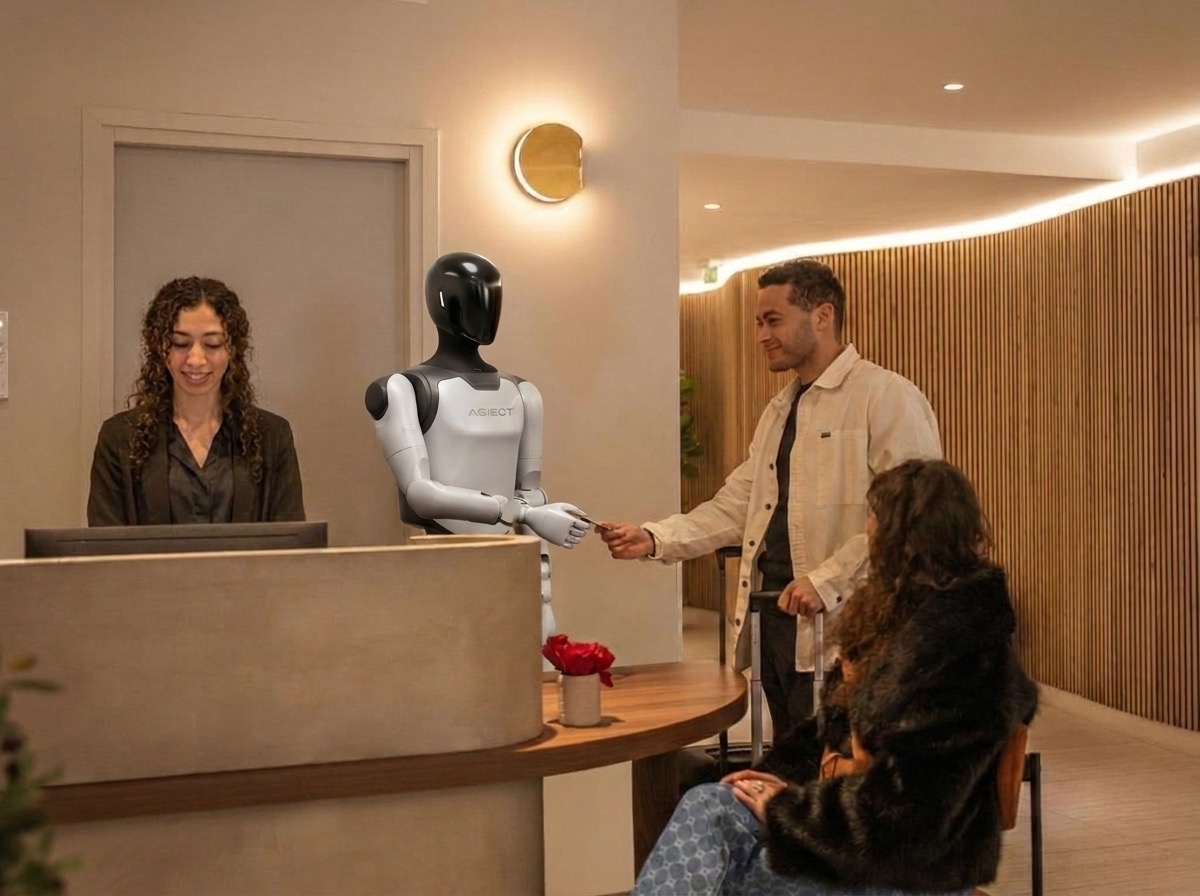
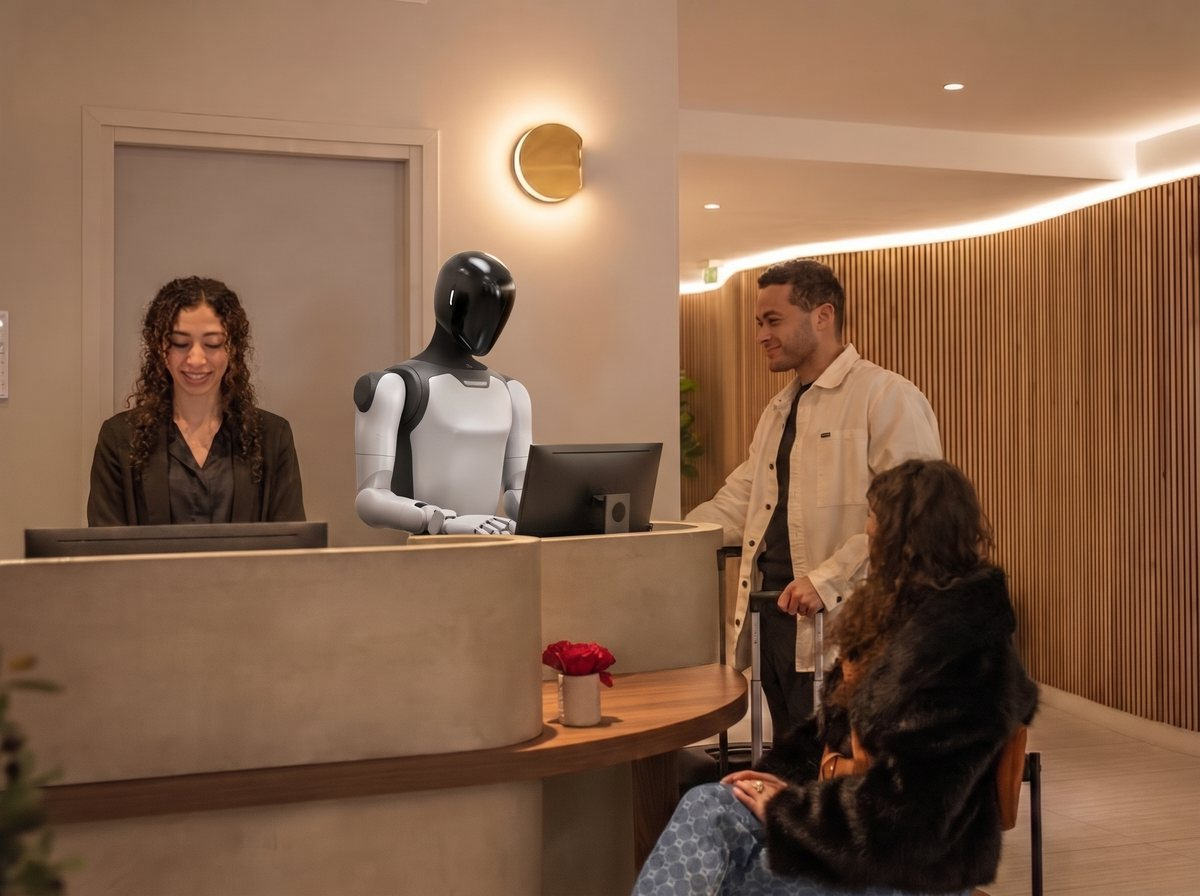
feat(deck): show the A3 at the desk computer and the Unitree H2 as the cheaper option

Changed region(s): [[0.2775, 0.2812, 0.6167, 0.75], [0.4317, 0.8438, 0.555, 1.0]]

diff --git a/presentation.html b/presentation.html
@@ -554,6 +554,13 @@
 </head>
 <body>
 
+  .pk-hero .img.duo { height: 590px; gap: 40px; padding-bottom: 40px; align-items: stretch; justify-content: center; }
+  .pk-hero .duo figure { display: flex; flex-direction: column; align-items: center; justify-content: flex-end; gap: 12px; min-height: 0; width: 280px; }
+  .pk-hero .duo figure img { flex: 1 1 0; min-height: 0; max-height: none; }
+  .pk-hero .duo figcaption { height: 92px; text-align: center; display: flex; flex-direction: column; gap: 2px; }
+  .pk-hero .duo figcaption b { font-size: 22px; }
+  .pk-hero .duo figcaption small { font-size: 16px; color: var(--ink-2); }
+  .pk-hero .duo figcaption span { font-size: 21px; font-weight: 800; }
 <!-- Loop mark: blue rounded square, white loop arrow, ink dot. Reused by every slide via <use>. -->
 <svg width="0" height="0" style="position:absolute">
   <defs>
@@ -718,8 +725,8 @@
       <b class="name rise" style="--d:.1s">AgiBot A3</b>
       <div class="meta rise" style="--d:.2s"><span class="price">Dès 88 600 € HT*</span></div>
       <p class="specs rise" style="--d:.25s">1,73 m · 55 kg · jusqu'à 10 h d'autonomie · batteries changées en 10 secondes</p>
-      <p class="src-n rise" style="--d:.3s">* Prix public de Generation Robots, revendeur en France, version standard. Relevé en octobre 2026.</p>
-      <div class="img"><img src="assets/deck/a3-debout.jpg" alt="AgiBot A3" style="filter:brightness(1.1)"></div>
+      <p class="src-n rise" style="--d:.3s">* Prix public de Generation Robots, revendeur en France, version standard. Relevé en octobre 2026.<br>** Prix public de Megadron, revendeur en Pologne. Relevé en octobre 2026.</p>
+      <div class="img duo"><figure><img src="assets/deck/agibot-a3.png" alt="AgiBot A3" style="height:96.1%"><figcaption><b>AgiBot A3</b><small>1,73 m · 55 kg</small></figcaption></figure><figure><img src="assets/deck/unitree-h2.png" alt="Unitree H2" style="height:100%"><figcaption><b>Unitree H2</b><small>1,80 m · 70 kg · moins cher</small><span>35 146 € HT**</span></figcaption></figure></div>
     </div>
     <div class="pk-body">
       <div class="rise" style="--d:.2s"><h6>Ce qu'on retient</h6><ul class="pk-seen"><li class="ok">Taille humaine : il tient un comptoir comme une personne.</li><li class="ok">Parle et comprend la voix, avec des gestes.</li><li class="ok">Se déplace à pied, jusqu'à 1,8 m/s.</li><li class="ok">Deux batteries : on les change sans l'éteindre.</li><li class="ko">Coûte très cher.</li><li class="ko">Nécessite un développement logiciel.</li></ul></div>
@@ -727,8 +734,7 @@
       <div class="pk-alts">
         <div class="pk-alt pop" data-at="600"><span class="th ph"><img src="assets/deck/alt-unitree-r1.jpg" alt=""><span class="x">✕</span></span><div><b>Unitree R1</b><small>≈ 5 900 $</small></div><p>1,21 m : trop petit pour tenir un comptoir.</p></div>
         <div class="pk-alt pop" data-at="1050"><span class="th"><img src="https://escadrone.com/wp-content/uploads/2025/10/Robot-humanoide-Unitree-G1.png" alt=""><span class="x">✕</span></span><div><b>Unitree G1</b><small>22 500 € et plus</small></div><p>1,32 m : trop petit aussi, et encore téléopéré.</p></div>
-        <div class="pk-alt pop" data-at="1500"><span class="th ph"><img src="assets/deck/alt-unitree-h2.jpg" alt=""><span class="x">✕</span></span><div><b>Unitree H2</b><small>≈ 41 000 $</small></div><p>La bonne taille, mais pas de prix confirmé en Europe.</p></div>
-        <div class="pk-alt pop" data-at="1950"><span class="th ph"><img src="assets/deck/alt-neura-4ne1.jpg" alt=""><span class="x">✕</span></span><div><b>NEURA 4NE1</b><small>98 000 € HT</small></div><p>Réservation seulement, livraison attendue fin 2026.</p></div>
+        <div class="pk-alt pop" data-at="1500"><span class="th ph"><img src="assets/deck/alt-neura-4ne1.jpg" alt=""><span class="x">✕</span></span><div><b>NEURA 4NE1</b><small>98 000 € HT</small></div><p>Réservation seulement, livraison attendue fin 2026.</p></div>
       </div></div>
     </div>
   </div>
@@ -749,7 +755,7 @@
       </div>
       <p class="src-n rise" style="--d:.3s">Illustration : accueil de Quartier Libre Opéra, robot ajouté.</p>
     </div>
-    <div class="cart-img rise" style="--d:.15s"><img src="assets/deck/a3-accueil.jpg" alt="L'hôtesse et l'AgiBot A3 derrière le comptoir, le robot remet une clé au client" style="object-position:5% 50%"></div>
+    <div class="cart-img rise" style="--d:.15s"><img src="assets/deck/a3-accueil.jpg" alt="L'hôtesse et l'AgiBot A3 derrière le comptoir, le robot fait le check-in sur son ordinateur" style="object-position:5% 50%"></div>
   </div>
   <div class="s-foot"><span>Loop × Quartier Libre Collection · P1 · Accueil · alternative</span><span class="n"></span></div>
 </section>
